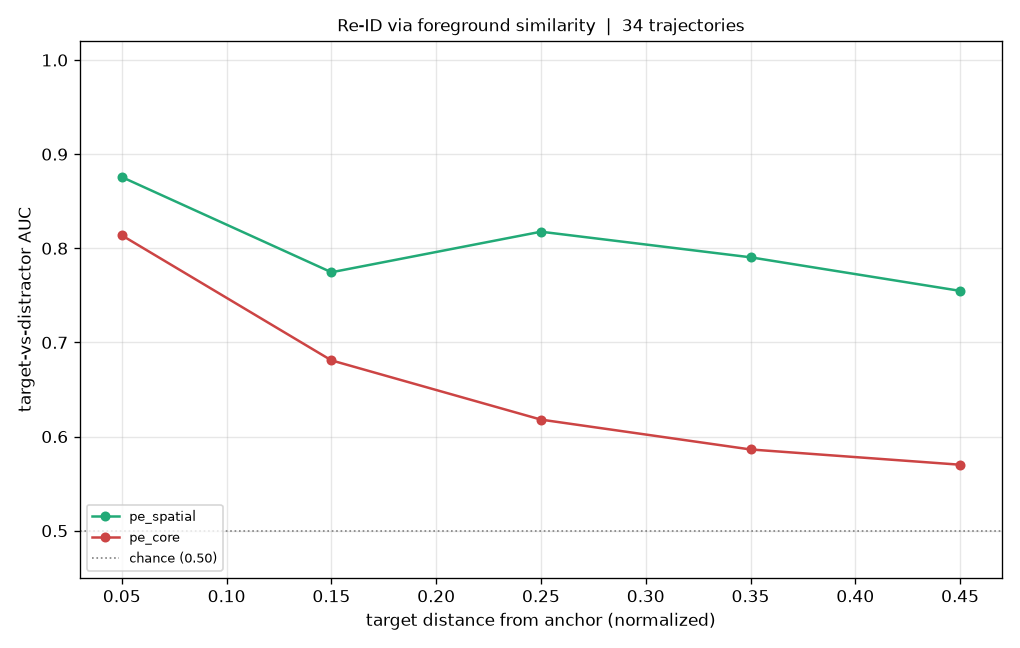
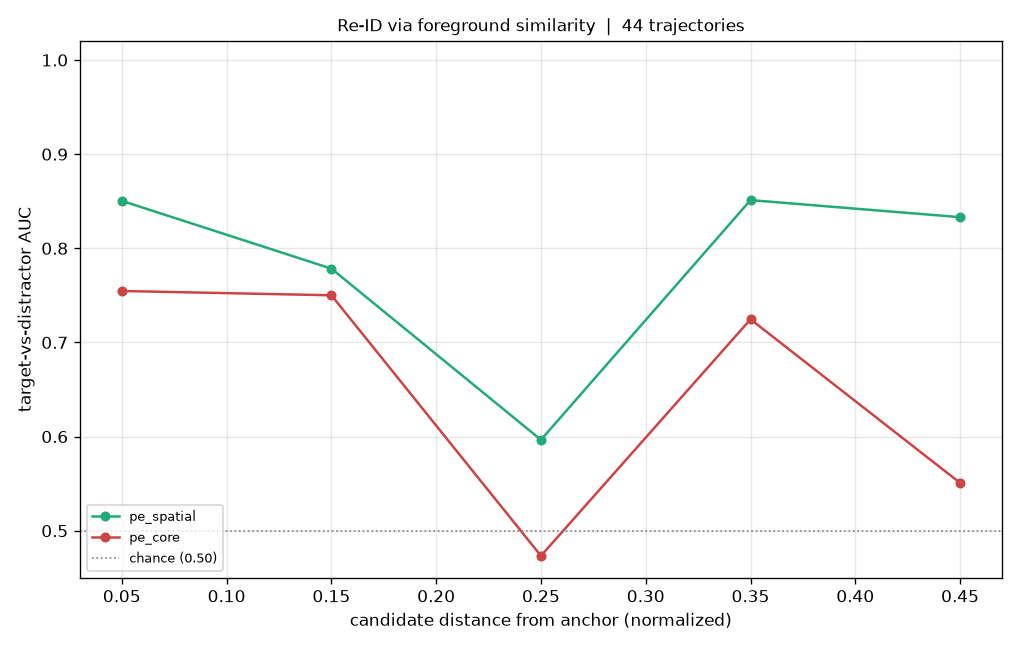
fixed distractor selection

diff --git a/pe_reid_longrange.py b/pe_reid_longrange.py
@@ -147,23 +147,14 @@ def distance(a, b):
     return ((a[0] - b[0]) ** 2 + (a[1] - b[1]) ** 2) ** 0.5
 
 
-def uniform_distractors(anchor_center, clean_boxes, rng, n_distractors, dist_range):
-    """Pick n_distractors clean-person boxes whose distance from the anchor is spread uniformly over dist_range.
-    For each slot, sample a target distance and take the nearest still-available box to it."""
+def nearest_distractors(target_center, clean_boxes, n_distractors):
+    """The n_distractors clean-person boxes closest to the target this frame -- hard negatives that
+    share the target's local background and scale, so the comparison isolates appearance."""
 
-    lo, hi = dist_range
-    pool = [(box, distance(box_center(box), anchor_center)) for box in clean_boxes]
-    pool = [(box, dist) for box, dist in pool if lo <= dist <= hi]
-
-    chosen = []
-    while pool and len(chosen) < n_distractors:
-        target = rng.uniform(lo, hi)
-        nearest = min(range(len(pool)), key=lambda i: abs(pool[i][1] - target))
-        chosen.append(pool.pop(nearest))
-    return chosen
+    return sorted(clean_boxes, key=lambda box: distance(box_center(box), target_center))[:n_distractors]
 
 
-def evaluate_trajectory(sam, backbones, detection_data, trajectory, config, rng):
+def evaluate_trajectory(sam, backbones, detection_data, trajectory, config):
     """Yield (backbone, dists, scores) per visible frame; index 0 is the target, the rest distractors.
     dists[i] is candidate i's distance from the anchor centre, scores[i] its chamfer to the anchor query."""
 
@@ -198,14 +189,14 @@ def evaluate_trajectory(sam, backbones, detection_data, trajectory, config, rng)
     clean_boxes = load_clean_boxes_by_frame(visible_json, person)
 
     for t in range(1, len(frames), config.stride):
-        distractors = uniform_distractors(anchor_center, clean_boxes.get(int(frame_indices[t]), []),
-                                          rng, config.n_distractors, config.distractor_dist_range)
+        target_center = box_center(boxes[t])
+        distractors = nearest_distractors(target_center, clean_boxes.get(int(frame_indices[t]), []), config.n_distractors)
         if occlusions[t] > 0.5 or float(boxes[t][2]) <= 0 or not distractors:
             continue
 
-        # Candidates are the target (index 0) then the distractors, each with its distance from the anchor.
-        candidate_boxes = [boxes[t]] + [box for box, _ in distractors]
-        candidate_dists = [distance(box_center(boxes[t]), anchor_center)] + [dist for _, dist in distractors]
+        # Candidates are the target (index 0) then its nearest distractors, each binned by its distance from the anchor.
+        candidate_boxes = [boxes[t]] + distractors
+        candidate_dists = [distance(box_center(box), anchor_center) for box in candidate_boxes]
         candidates = foreground_tokens(sam, backbones, frames[t], candidate_boxes, floor, config.crop_size)
         if candidates is None:
             continue
@@ -292,13 +283,12 @@ def run_reid(config: DictConfig):
     results, done = load_checkpoint(config.checkpoint)
     print(f"benchmarking {len(trajectories)} trajectories; resuming with {len(done)} done")
 
-    rng = np.random.RandomState(0)
     for completed, trajectory in enumerate(tqdm(trajectories, desc="re-id"), start=1):
         key = f"{trajectory[0]}_{trajectory[1]}_{trajectory[2]}"
         if key in done:
             continue
 
-        for name, dists, scores in evaluate_trajectory(sam, backbones, detection_data, trajectory, config, rng):
+        for name, dists, scores in evaluate_trajectory(sam, backbones, detection_data, trajectory, config):
             for index, (candidate_distance, score) in enumerate(zip(dists, scores)):
                 label = 1 if index == 0 else 0               # index 0 is the target, the rest are distractors
                 results[name].append((candidate_distance, label, score))
